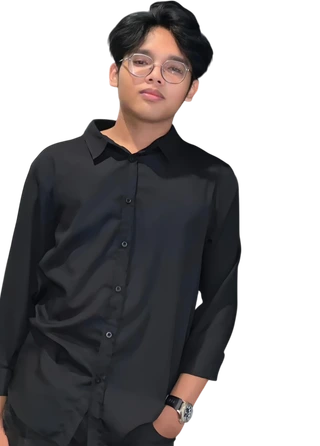
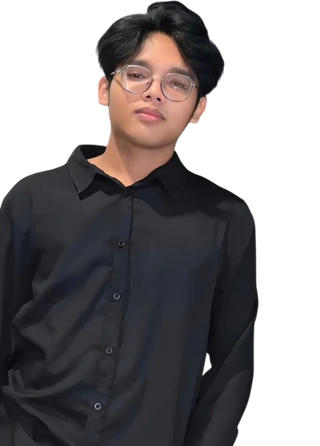
content: real village screenshot, new portrait, Neo4j and FastAPI in Skills
Three of the owner's asks, plus a defect found while doing them.

village-portal.webp is the real banjarsarigarut.id capture now, built
from Konten_Asli/gambar/projects/Profil Desa.png. It had been
byte-identical to simpel-ibs.webp and was showing the SimpelBS homepage
on the 01 featured row — the most prominent card on the page advertising
another project. Source was 2880x1800 at exactly 1.600, so the resize to
800x500 cropped nothing: 28 KB.

The hero portrait is the owner's new photo. He said its framing was
already what he wanted, so rather than re-cropping it, crop-avatar.mjs
points at the new source with ZOOM = 1.0 — and at 1.0 against this
source the crop takes 0px of width and 71px off the bottom to make the
card's aspect. It is the photo as he framed it, fitted. Output stays
320x446, so nothing else in the project moved.

The ZOOM guide in that script was re-measured and was wrong to leave:
those numbers are a fraction of the source's own width, so they shift
whenever SOURCE does. The same 1.15 that gave ~141px on the old photo
gives ~149px on this one. Table now reads 1.00/1.15/1.32 -> 129/149/171px,
with a note to re-measure rather than trust it after a source change.

Neo4j and FastAPI are in Skills. Both were on AssetMind's chip row and
in neither skills card, so a reader filtering by skill could not find a
framework a featured card names. Both intermediate — a guess held
deliberately low, one word to change — and both linked to assetmind.
[…]

diff --git a/src/data/skills.ts b/src/data/skills.ts
@@ -16,6 +16,11 @@ export const skillCategories: SkillCategory[] = [
       { name: 'Django', icon: 'server', level: 'intermediate' },
       { name: '.NET Core 8', icon: 'server', level: 'intermediate' },
       { name: 'Flask', icon: 'server', level: 'intermediate' },
+      // Added 2026-08-22. It was on AssetMind's chip row and nowhere in this
+      // section, so a reader who filtered by skill could not find the framework
+      // a featured card names. `level` is the owner's call and this is a guess
+      // held deliberately low — one word to change.
+      { name: 'FastAPI', icon: 'server', level: 'intermediate', relatedProjectIds: ['assetmind'] },
       { name: 'Vue.js', icon: 'component', level: 'intermediate' },
       { name: 'React', icon: 'component', level: 'intermediate' },
       { name: 'TypeScript', icon: 'code', level: 'intermediate' },
@@ -76,6 +81,11 @@ export const skillCategories: SkillCategory[] = [
       { name: 'MySQL', icon: 'database', level: 'advanced', relatedProjectIds: ['village-portal'] },
       { name: 'PostgreSQL', icon: 'database', level: 'intermediate' },
       { name: 'SQL Server', icon: 'database', level: 'intermediate' },
+      // Same gap as FastAPI, same day. `database` rather than the `share-2`
+      // that marks Knowledge Graphs above: within this card the icon says what
+      // kind of thing it is, and Neo4j is a store. What makes it a *graph*
+      // store is already said by the skill it sits beside in AI & Retrieval.
+      { name: 'Neo4j', icon: 'database', level: 'intermediate', relatedProjectIds: ['assetmind'] },
       { name: 'Docker', icon: 'box', level: 'intermediate' },
       { name: 'Git & GitHub', icon: 'git-branch', level: 'advanced' },
       { name: 'Vercel', icon: 'triangle', level: 'intermediate' },

diff --git a/src/sections/About.tsx b/src/sections/About.tsx
@@ -13,11 +13,22 @@ export default function About() {
       <div className="grid gap-10 md:grid-cols-12">
         <div className="md:col-span-5">
           <Reveal>
+            {/* 320x446, which is what the file actually is. It said 800x800
+                until 2026-08-22 — a square reservation for a 0.717 portrait,
+                so the browser held the wrong box until the image arrived and
+                then reflowed this column. Nothing failed and nothing looked
+                obviously wrong, which is why it survived a CLS pass that took
+                the desktop score from 0.245; the numbers here simply never
+                matched the asset the crop script writes.
+
+                This is also the same file the hero's ProfileCard renders, and
+                the owner has called that redundant. If this image is replaced,
+                these two numbers go with it. */}
             <img
               src={profile.avatarUrl}
-              alt={`${profile.name} at work`}
-              width={800}
-              height={800}
+              alt={`${profile.name}, portrait`}
+              width={320}
+              height={446}
               loading="lazy"
               decoding="async"
               className="w-full rounded-xl border border-edge"

diff --git a/docs/superpowers/HANDOFF.md b/docs/superpowers/HANDOFF.md
@@ -52,8 +52,9 @@ None of this is guessed or invented — the project's standing rule is that a po
 | ~~**Dukunify** — five empty fields~~ | — | **Replaced by AssetMind on 2026-08-22.** No `TODO(owner)` copy remains anywhere on the page. See [AssetMind](#assetmind-replaced-dukunify). |
 | ~~**AssetMind's thumbnail**~~ | — | **Supplied by the owner 2026-08-22.** A real CMMS login capture. It arrived as a 2,556 KB PNG named `.webp` at 2880×1800 and was re-encoded to 800×500 WebP, 29 KB — a 98.9% saving on a featured row. |
 | ~~**AssetMind's stack**~~ | — | **Supplied 2026-08-22**: six of the eighteen the owner listed, one per layer. |
-| **`village-portal.webp` is the wrong screenshot** | `public/projects/village-portal.webp` | **Still outstanding.** Byte-identical to `simpel-ibs.webp`, and it shows the SimpelBS homepage. A featured row is displaying another project's site. Needs a real `banjarsarigarut.id` capture at 800×500. |
-| **`Neo4j` and `FastAPI` are on a featured card but not in Skills** | [`src/data/skills.ts`](../../src/data/skills.ts) | AssetMind's chip row names both; the Skills section names neither, so a reader filtering by skill cannot find them. Adding them needs a `level`, which is the owner's to judge. |
+| ~~**`village-portal.webp` is the wrong screenshot**~~ | — | **Fixed 2026-08-22** from `Konten_Asli/gambar/projects/Profil Desa.png`. It was byte-identical to `simpel-ibs.webp` and showed the SimpelBS homepage on the 01 featured row. |
+| ~~**`Neo4j` and `FastAPI` missing from Skills**~~ | — | **Added 2026-08-22**, both `intermediate` and both linked to `assetmind`. The `level` on each is a guess held deliberately low — one word to change. |
+| **The About section renders the hero's portrait a second time** | [`src/sections/About.tsx`](../../src/sections/About.tsx) | The owner has called it redundant and it is: the same `/profile/avatar.webp`, twice on one page, measured. What replaces it is an open question — see [the About column](#the-about-column-is-an-open-question). |
 | **Animart** — the owner's own part on it | [`src/data/projects.ts:66`](../../src/data/projects.ts) | `role` was deliberately removed rather than guessed: the project report says the team chose the approach, and an earlier inferred "Solo — analysis and build" was wrong. Optional; the meta line reads "Data · 2025" without it. |
 | ~~**Certificate dates** — 7 of 14~~ | — | **Closed 2026-08-22 by deleting the fields**, not by filling them. See [no dates on certificates](#no-dates-on-certificates). |
 | **The `web-developer` certificate title** | [`src/data/certificates.ts:38`](../../src/data/certificates.ts) | Issuer is confirmed **BNSP**. The exact wording on the scan is not. This is now the only unverified string in `src/data/`. |
@@ -197,6 +198,14 @@ Embeddings and Sentence Transformers were left out on the first pass, on the rea
 **The stack is six of the eighteen the owner listed**, chosen so each names a different layer rather than a different package: `Python`, `FastAPI`, `LangChain`, `Llama 3.3 70B`, `Neo4j`, `Sentence Transformers`. Uvicorn, Pydantic, pytest, httpx and the `langchain-*` adapters are real and implied by those six — a chip row listing a test runner beside a 70B model tells a reader less, not more. Neo4j earns its slot over anything competing for it because the knowledge graph is the whole claim of the project, and it is the only chip that says the graph is real rather than a diagram.
 
 **The thumbnail needed re-encoding, and the reason generalises.** The owner's capture was a 2,556 KB **PNG carrying a `.webp` extension** at 2880×1800. Browsers sniff content, so it rendered correctly and nothing failed — the file simply lied about its format while shipping 2.5 MB to a featured row on a page whose Performance score was fought from 57 to 80. Its ratio was already exactly 1.6, so a resize to 800×500 needed no crop and lost nothing from frame: **29 KB, a 98.9% saving.** Check format and pixel dimensions on every supplied asset; the extension is not evidence.
+
+### The About column is an open question
+
+**The About section renders `/profile/avatar.webp` — the exact file the hero's `ProfileCard` renders.** Measured on the built page: two `<img>` elements, one `src`. The owner spotted it and asked what could go in that column instead; nothing has been decided, so the photo is still there.
+
+While looking, a second fault turned up that was nothing to do with redundancy. **The `<img>` declared `width={800} height={800}` for a file that is 320×446** — a square reservation for a 0.717 portrait, so the browser held the wrong box until the image arrived and then reflowed the column. It survived the CLS pass that fixed the desktop 0.245, because nothing about it looks wrong: the numbers simply never matched what `crop-avatar.mjs` writes. Corrected to 320×446. **If a component states an image's dimensions, check them against the file rather than against the spec** — this project's spec says the profile photo is 800×800, and the hero portrait deliberately is not.
+
+The options that were put to the owner, and the reasoning, are worth keeping if this comes back: the strongest candidate is the **IEEE Xplore publication**, because it is the one hard credential on this page that appears nowhere prominent — it is currently a single bullet inside an Education highlight. A skills panel would duplicate Skills, a timeline would duplicate Experience, and a second photo is another asset to source.
 
 ### No dates on certificates
 
